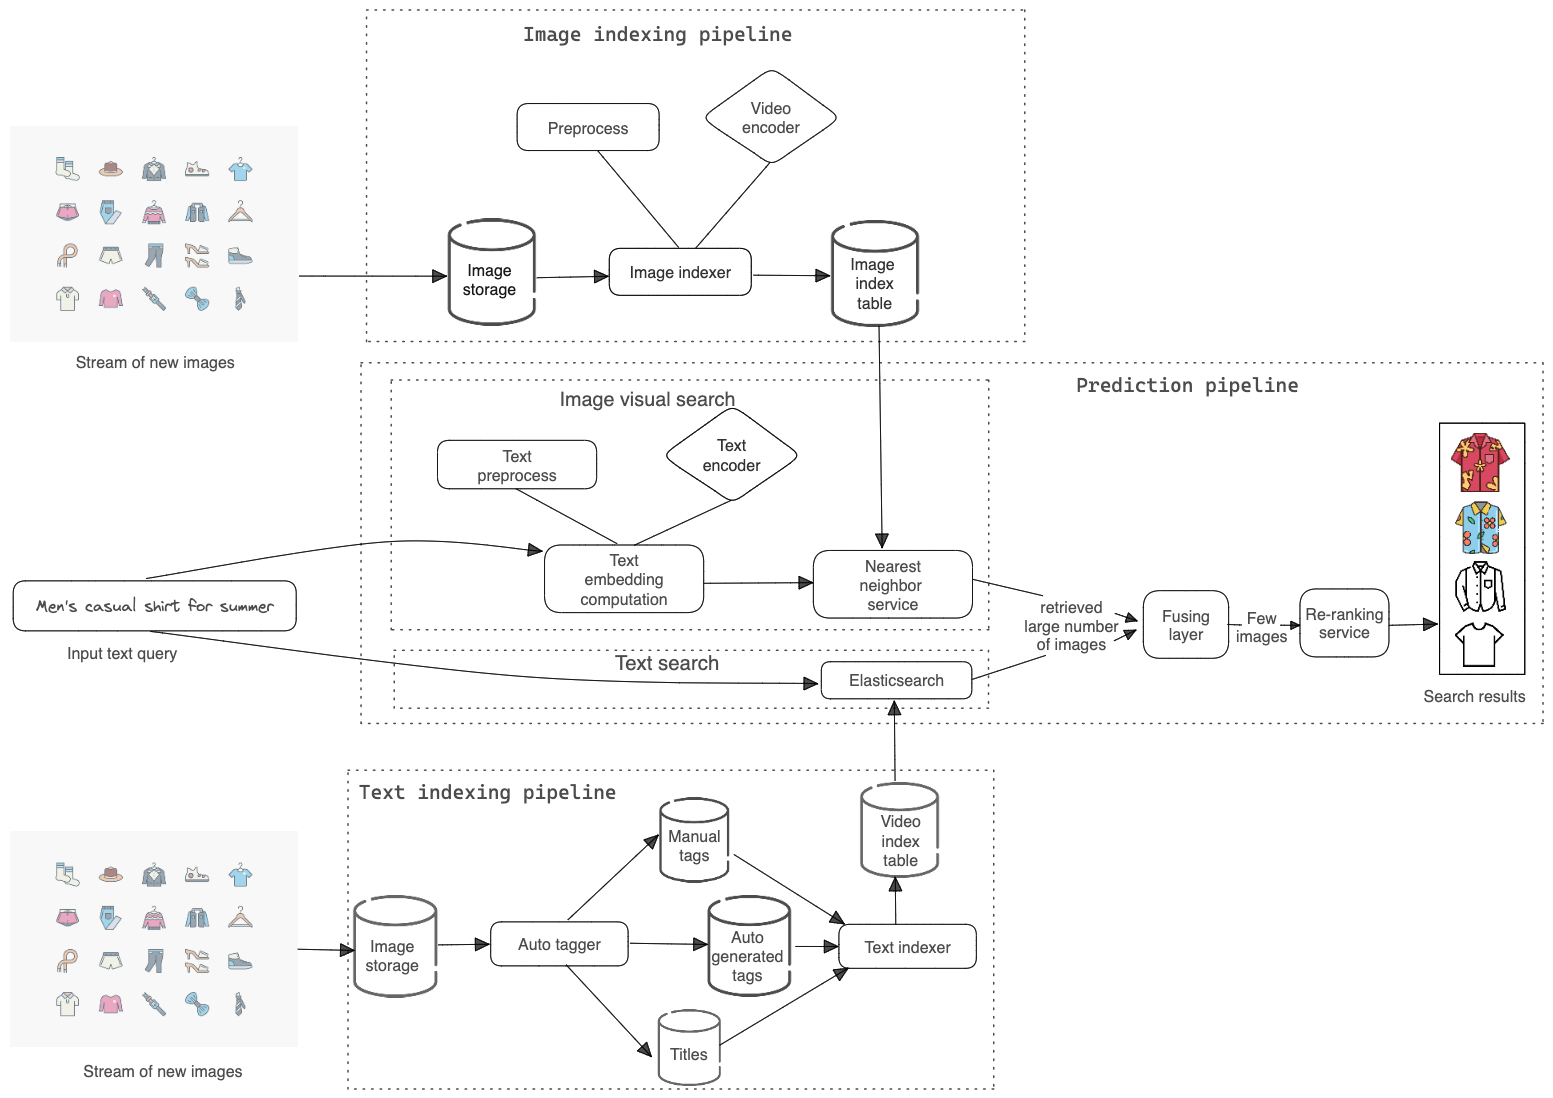
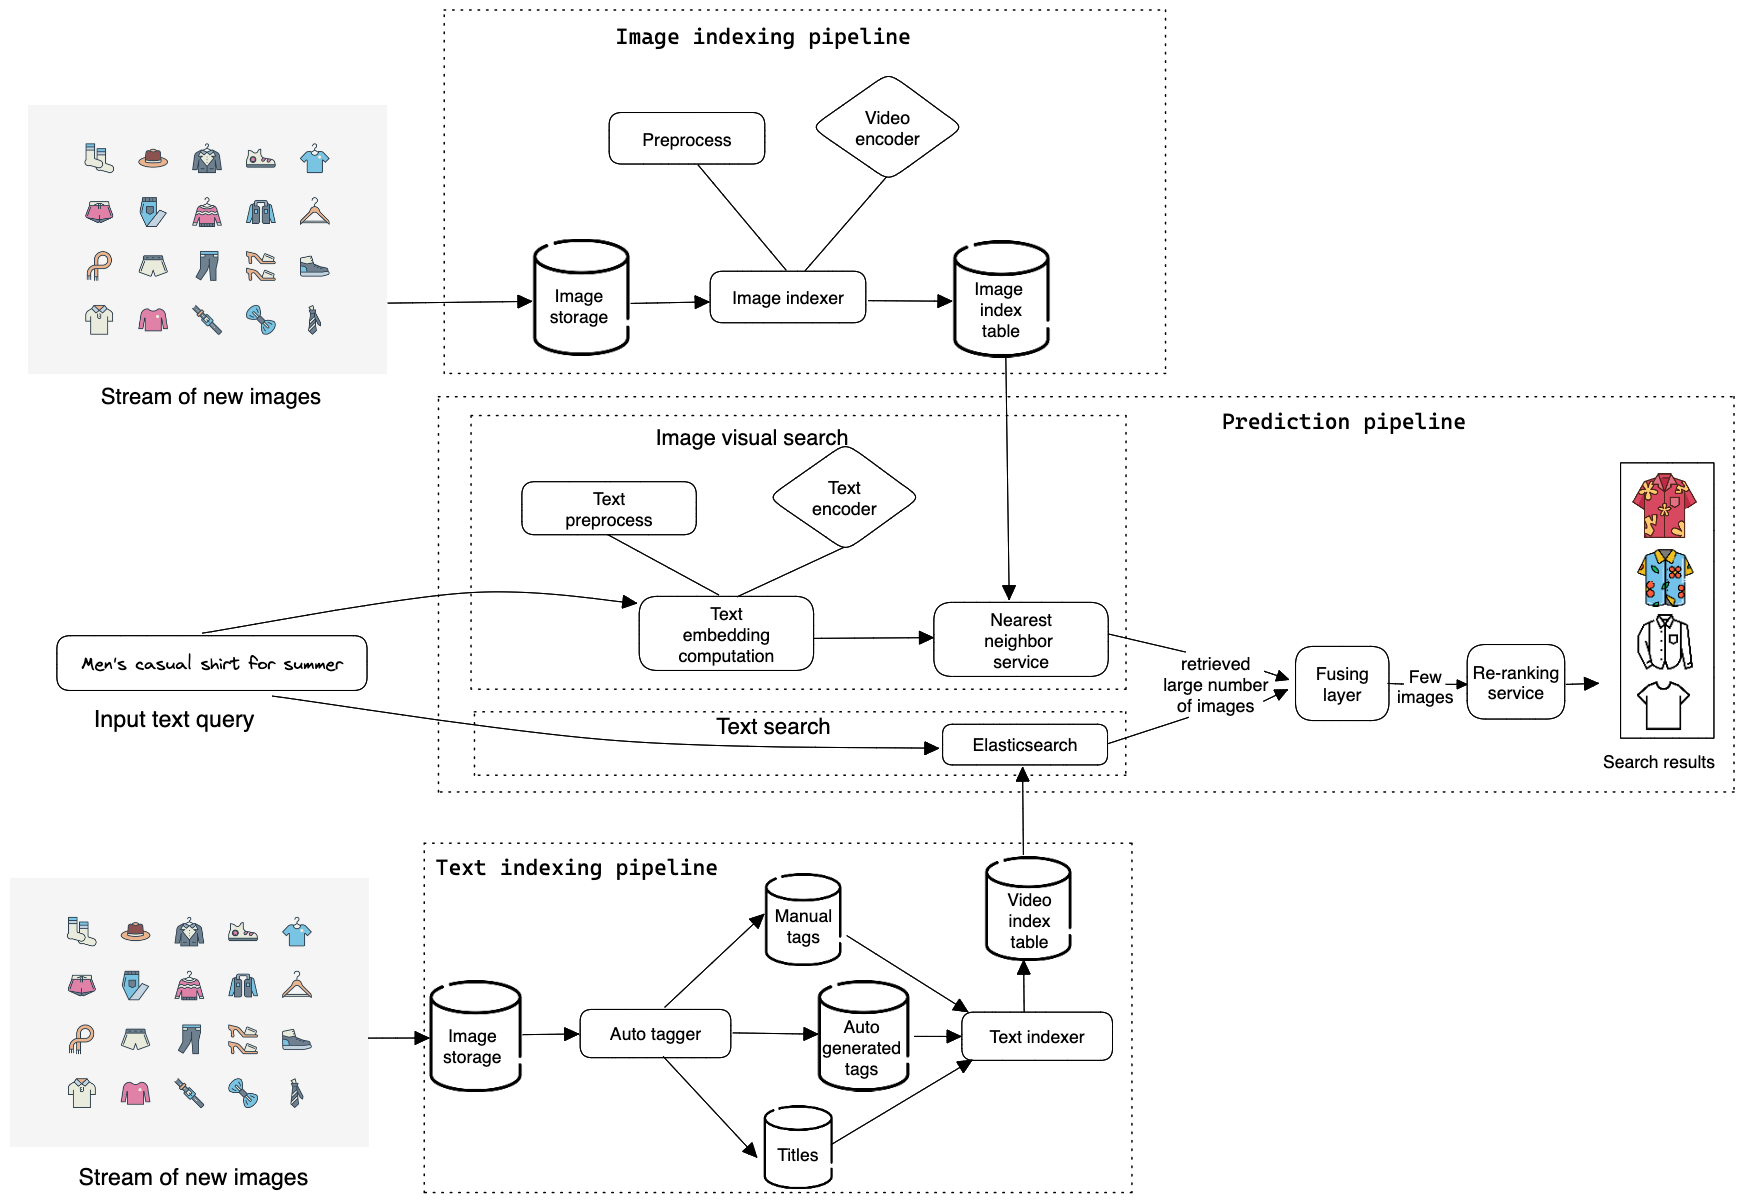
Add updated bolder diagrams

diff --git a/index.md b/index.md
@@ -25,7 +25,7 @@ You can reach out to me on &nbsp; &nbsp; &nbsp; [![twitter](/images/tweet_icon.p
 <ul>
   {% for post in site.posts %}
     <li>
-      <a href="·{{ post.url }}">{{ post.title }}</a>
+      <a href="{{ post.url }}">{{ post.title }}</a>
     </li>
   {% endfor %}
 </ul>
